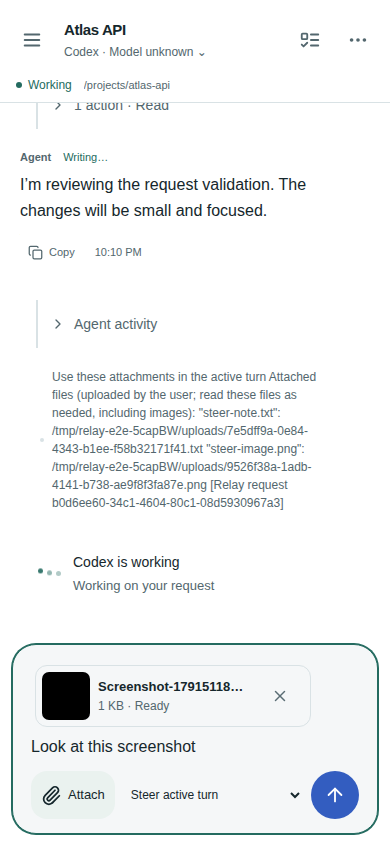
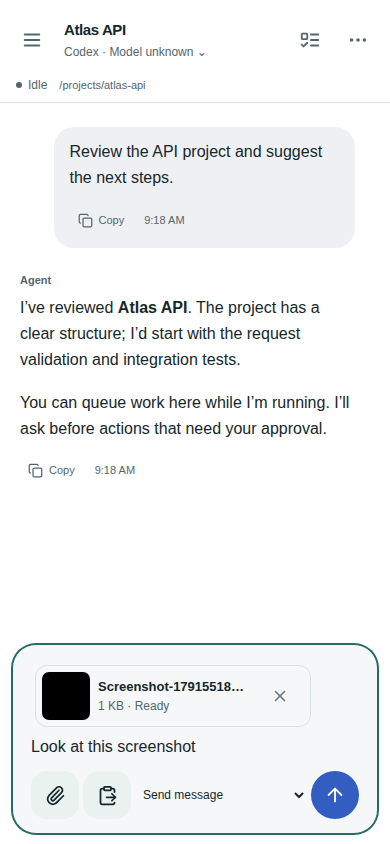
Expose direct screenshot paste independent of Android keyboard insertion

diff --git a/apps/web/src/attachments.tsx b/apps/web/src/attachments.tsx
@@ -154,7 +154,9 @@ export function AttachmentPicker({
   const pasteScreenshot = async () => {
     if (disabled || pastingRef.current) return;
     setPasteError('');
+    setOpen(false);
     if (!navigator.clipboard?.read) {
+      setOpen(true);
       setPasteError(
         'This browser cannot read clipboard images. Choose Photos to attach your screenshot.',
       );
@@ -179,6 +181,7 @@ export function AttachmentPicker({
         );
       }
       if (!images.length) {
+        setOpen(true);
         setPasteError(
           'No image was shared by the clipboard. Copy a screenshot first, or choose Photos.',
         );
@@ -188,6 +191,7 @@ export function AttachmentPicker({
       setOpen(false);
       container.current?.querySelector('button')?.focus();
     } catch {
+      setOpen(true);
       setPasteError('Clipboard access was blocked. Allow paste in your browser, or choose Photos.');
     } finally {
       pastingRef.current = false;
@@ -208,16 +212,20 @@ export function AttachmentPicker({
         <Paperclip size={21} aria-hidden="true" />
         <span>Attach</span>
       </button>
+      <button
+        type="button"
+        className="attach-button paste-button"
+        aria-label="Paste screenshot"
+        title="Paste screenshot from clipboard"
+        aria-busy={pasting}
+        disabled={disabled || pasting}
+        onClick={() => void pasteScreenshot()}
+      >
+        <ClipboardPaste size={21} aria-hidden="true" />
+        <span>{pasting ? 'Reading…' : 'Paste'}</span>
+      </button>
       {open && (
         <div className="attachment-menu" role="group" aria-label="Attachment options">
-          <button
-            type="button"
-            disabled={disabled || pasting}
-            onClick={() => void pasteScreenshot()}
-          >
-            <ClipboardPaste size={20} aria-hidden="true" />
-            {pasting ? 'Reading clipboard…' : 'Paste screenshot'}
-          </button>
           <button
             type="button"
             onClick={() => {

diff --git a/tests/e2e/mobile.spec.ts b/tests/e2e/mobile.spec.ts
@@ -1050,7 +1050,7 @@ test('clipboard screenshot uploads once, keeps draft text, and sends the attachm
     await navigator.clipboard.write([new ClipboardItem({ 'image/png': blob })]);
   });
   await page.getByLabel('Instruction', { exact: true }).fill('Look at this screenshot');
-  await page.getByRole('button', { name: 'Add files or images' }).click();
+  await expect(page.getByRole('group', { name: 'Attachment options' })).toHaveCount(0);
   await page.screenshot({ path: 'docs/screenshots/clipboard-menu-mobile.png' });
   await page.getByRole('button', { name: 'Paste screenshot', exact: true }).click();
   await expect(page.getByText(/KB · Ready/)).toHaveCount(1);
@@ -1059,7 +1059,7 @@ test('clipboard screenshot uploads once, keeps draft text, and sends the attachm
   );
   await expect(page.getByRole('img', { name: /Preview of Screenshot-/ })).toBeVisible();
   await page.screenshot({ path: 'docs/screenshots/clipboard-preview-mobile.png' });
-  // Android advertises image MIME support only for a richly editable field.
+  // Rich editing is required for Android IME images, but Chrome also gates media insertion.
   await expect(page.getByLabel('Instruction', { exact: true })).toHaveAttribute(
     'contenteditable',
     'true',
@@ -1092,7 +1092,6 @@ test('clipboard denial or no image gives a usable photo fallback without losing 
       },
     }),
   );
-  await page.getByRole('button', { name: 'Add files or images' }).click();
   await page.getByRole('button', { name: 'Paste screenshot', exact: true }).click();
   await expect(page.getByRole('alert')).toContainText('Clipboard access was blocked');
   await expect(page.getByRole('button', { name: 'Photos', exact: true })).toBeVisible();

diff --git a/apps/web/src/style.css b/apps/web/src/style.css
@@ -1605,6 +1605,9 @@ code {
 }
 .attachment-picker {
   position: relative;
+  display: flex;
+  gap: 4px;
+  flex-shrink: 0;
 }
 .attachment-menu {
   position: absolute;
@@ -3281,4 +3284,10 @@ body,
   content: attr(data-placeholder);
   color: var(--muted);
   pointer-events: none;
+}
+
+/* Keep separate 48px attachment and clipboard targets beside the mode and send controls. */
+@media (max-width: 480px) {
+  .composer-controls .attach-button span { display: none; }
+  .composer-controls { gap: 4px; }
 }

diff --git a/docs/ATTACHMENTS.md b/docs/ATTACHMENTS.md
@@ -1,6 +1,6 @@
 # File and image attachments
 
-Relay accepts up to 10 files per instruction, 20 MB per file, with a 1 GB gateway upload quota. Photos, camera capture and general files use the operating system/browser picker; The chat composer uses a rich-editable field so Android Chrome can advertise keyboard image-paste support; paste files become draft attachments while message text stays plain. Desktop paste and drop and Attach → Paste screenshot remain supported. PNG/JPEG/WebP/GIF selections have local previews. Other formats appear as filenames. The camera picker requires testing on the actual phone; browser emulation does not establish device-camera behavior.
+Relay accepts up to 10 files per instruction, 20 MB per file, with a 1 GB gateway upload quota. Photos, camera capture and general files use the operating system/browser picker; The chat composer uses a rich-editable field as one prerequisite for Android keyboard image handoff (Chrome also gates this behind its AndroidMediaInsertion feature); paste files become draft attachments while message text stays plain. Desktop paste and drop and the direct Paste screenshot button beside Attach remain supported. PNG/JPEG/WebP/GIF selections have local previews. Other formats appear as filenames. The camera picker requires testing on the actual phone; browser emulation does not establish device-camera behavior.
 
 Set `hosts[].localFiles: true` only when that host's agents share the gateway's filesystem and user access. Fred uses this mode. It is false by default: a forwarded remote Herdr socket does not make the gateway's local files accessible on another server.
 
@@ -21,3 +21,5 @@ The current Fred Codex TUI connects to a shared native daemon. The standalone an
 On a session that supports both native steering and shared local files, Send/Steer accepts the same file/image uploads as idle Send. The gateway verifies ownership and file integrity, includes immutable uploaded file paths for the harness's native file/image readers, and calls the actual steer adapter. It never converts this operation into a queued task. Codex steering additionally supplies PNG/JPEG/WebP/GIF uploads as native `localImage` inputs, so the model can see them without a file-reading tool. Other files use local references and require the harness’s file-reading tools.
 
 Migration 008 retains attachment-to-message receipts before native delivery, including uncertain acknowledgements, so removing a draft cannot delete a file still in use by the active agent. Replays return the original receipt without another native steer. The composer remains available while the agent works, previews attachments immediately and uses 48px touch targets. Photos, Camera and Files invoke the browser's native picker synchronously from the tap. Physical-device camera permissions remain OS controlled.
+
+Android keyboard clipboard history is separate from the current system clipboard. Chrome can reject keyboard image insertion even into a rich editable field; the PWA cannot enable Chrome’s AndroidMediaInsertion feature. Tap Relay’s clipboard icon to read the current clipboard through the Clipboard API. Copy the image again first if it exists only in keyboard history. Denied/empty reads open the Photos fallback and preserve the draft. Physical Android behavior remains to be verified.

diff --git a/docs/UI_DESIGN.md b/docs/UI_DESIGN.md
@@ -116,3 +116,7 @@ The composer is now a rich-editable DOM field with a plain-text message contract
 Native paste files become ordinary draft attachments. Pasted text is inserted at the caret without HTML formatting or remote image loads; native Undo stays available. DOM text is synchronized only for external changes such as dictation/restored drafts, preserving keyboard composition and selections during normal typing. Ctrl/Meta+Enter ignores active IME composition; plain Enter creates a new line. Touch selection inside the editor cannot open the session drawer. The explicit Attach → Paste screenshot permission flow remains a fallback.
 
 Browser regression coverage uses real clipboard image bytes, text plus HTML, caret replacement, Undo/Redo, multiline restoration, IME composition, dictation and send/steer attachments. Physical Android keyboard image handoff still requires device confirmation; desktop emulation does not reproduce the Android input connection.
+
+### Direct screenshot paste and Android feature gate
+
+Paste screenshot is now a separate 48px composer control beside Attach, available without opening a menu. On narrow screens both use icons with accessible names; denial or an empty clipboard opens the Photos fallback. This explicitly reads the current system clipboard, not keyboard clipboard history. Chromium additionally gates IME media insertion behind AndroidMediaInsertion (disabled by default in source); rich editing alone cannot guarantee Gboard support and a website cannot enable the feature. Reference: https://chromium.googlesource.com/chromium/src/+/refs/heads/main/content/public/common/content_features.cc and content/public/android/java/src/org/chromium/content/browser/input/ImeAdapterImpl.java. Browser tests verify direct read/upload and empty/denied fallback; actual Android keyboard handoff remains unverified.
